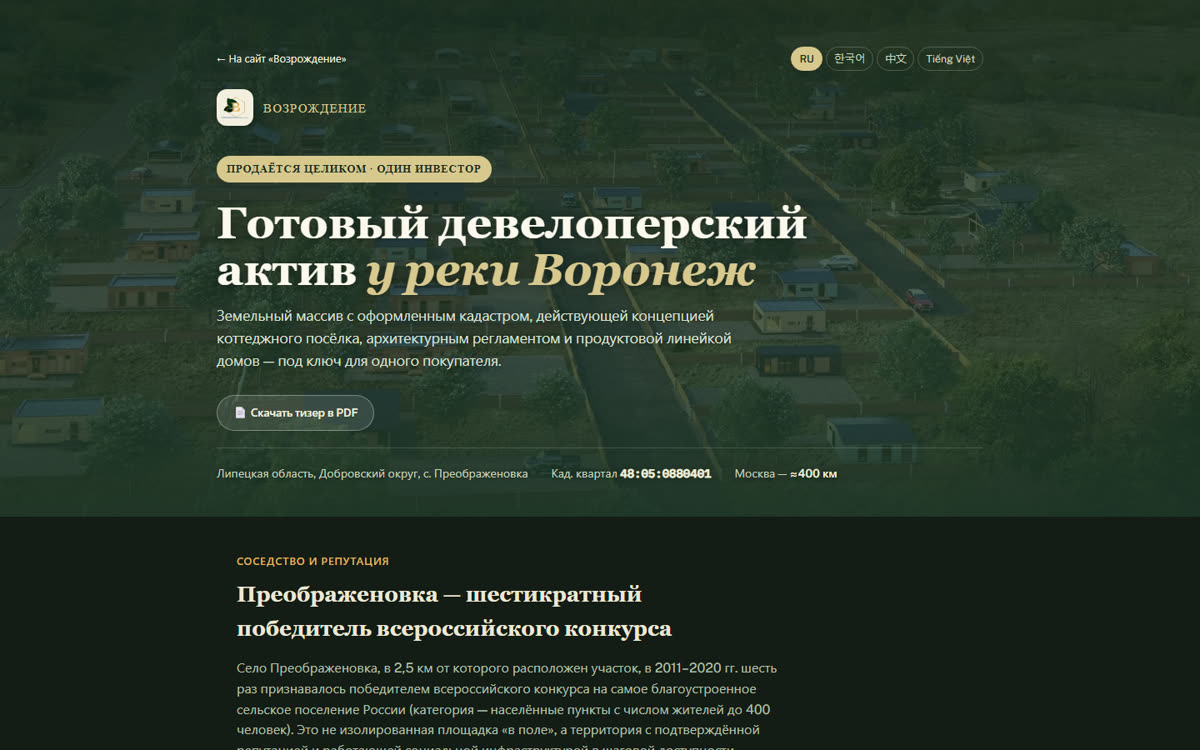
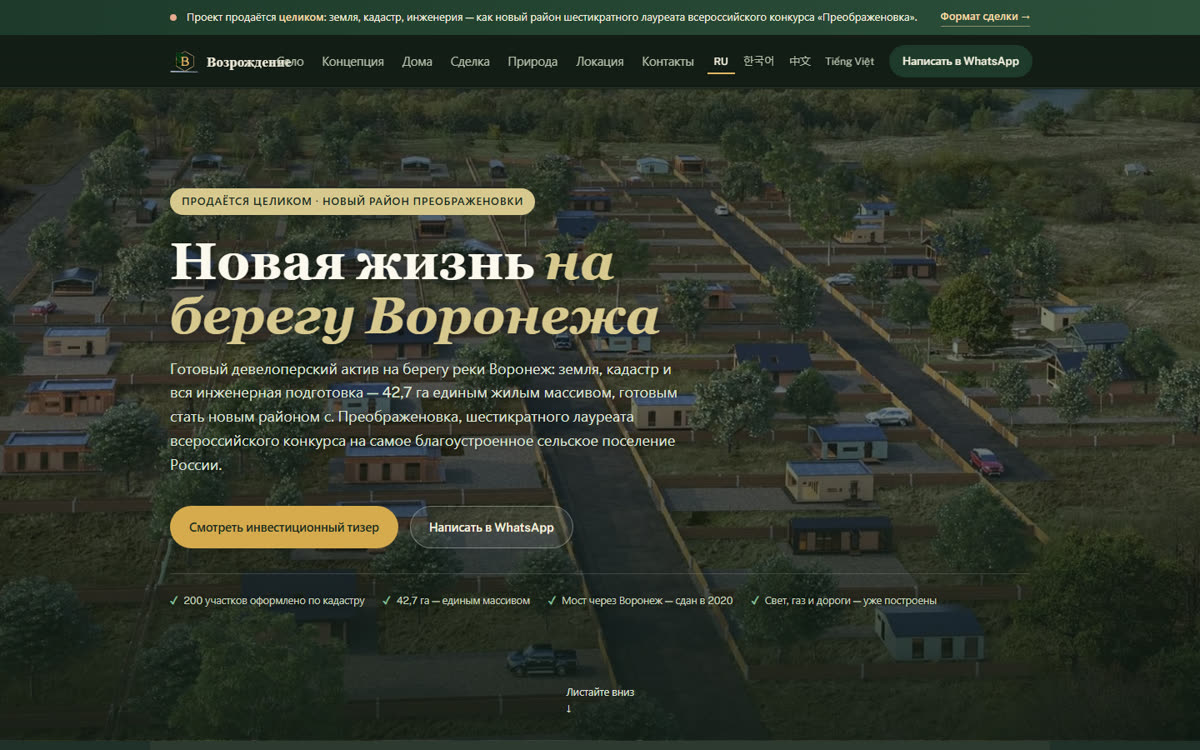
Portfolio: pick the strongest sites after reviewing all 61 live pages

diff --git a/index.html b/index.html
@@ -594,7 +594,7 @@ footer{padding-block:40px calc(30px + env(safe-area-inset-bottom,0px));border-to
 <section class="pfs panel" id="portfolio">
   <div class="wrap">
     <div class="pf-head">
-      <div><p class="eyebrow mono">Портфолио</p><h2 class="h2">Сайты<br><em>и приложения</em></h2></div>
+      <div><p class="eyebrow mono">Портфолио</p><h2 class="h2">Сайты, сервисы<br><em>и приложения</em></h2></div>
       <p class="note">Живые проекты: откройте любой и посмотрите, как он работает.</p>
     </div>
     <div class="pf-grid">
@@ -610,13 +610,25 @@ footer{padding-block:40px calc(30px + env(safe-area-inset-bottom,0px));border-to
         <div class="pf-shot"><div class="pf-bar"><i></i><i></i><i></i><span>vs-pro-m2.ru</span></div><img src="work/vspro.jpg" alt="Премиум-сайт риелтора" loading="lazy"></div>
         <div class="pf-meta"><span class="mono">Лендинг</span><h3>Премиум-сайт риелтора</h3></div>
       </a>
+      <a class="pf" href="https://vozrozhdenie-life.ru/" target="_blank" rel="noopener">
+        <div class="pf-shot"><div class="pf-bar"><i></i><i></i><i></i><span>vozrozhdenie-life.ru</span></div><img src="work/vozr.jpg" alt="Возрождение: новый район на берегу Воронежа" loading="lazy"></div>
+        <div class="pf-meta"><span class="mono">Девелопмент</span><h3>Возрождение: новый район на берегу Воронежа</h3></div>
+      </a>
       <a class="pf" href="https://goshva.github.io/archai/" target="_blank" rel="noopener">
         <div class="pf-shot"><div class="pf-bar"><i></i><i></i><i></i><span>ArchAI</span></div><img src="work/archai.jpg" alt="Видео будущего интерьера из фото бетонной коробки" loading="lazy"></div>
         <div class="pf-meta"><span class="mono">AI-сервис</span><h3>Видео будущего интерьера из фото бетонной коробки</h3></div>
       </a>
-      <a class="pf" href="https://vozrozhdenie-life.ru/teaser.html" target="_blank" rel="noopener">
-        <div class="pf-shot"><div class="pf-bar"><i></i><i></i><i></i><span>vozrozhdenie-life.ru</span></div><img src="work/vozr.jpg" alt="Тизер проекта у реки Воронеж" loading="lazy"></div>
-        <div class="pf-meta"><span class="mono">Девелопмент</span><h3>Тизер проекта у реки Воронеж</h3></div>
+      <a class="pf" href="https://goshva.github.io/reviews/" target="_blank" rel="noopener">
+        <div class="pf-shot"><div class="pf-bar"><i></i><i></i><i></i><span>Честный отзыв</span></div><img src="work/reviews.jpg" alt="Живые отзывы, после которых к вам идут гости" loading="lazy"></div>
+        <div class="pf-meta"><span class="mono">Лендинг для ресторанов</span><h3>Живые отзывы, после которых к вам идут гости</h3></div>
+      </a>
+      <a class="pf" href="https://goshva.github.io/newsgame/" target="_blank" rel="noopener">
+        <div class="pf-shot"><div class="pf-bar"><i></i><i></i><i></i><span>NewsGame</span></div><img src="work/newsgame.jpg" alt="Короткие игры к новостям для редакций" loading="lazy"></div>
+        <div class="pf-meta"><span class="mono">Медиа</span><h3>Короткие игры к новостям для редакций</h3></div>
+      </a>
+      <a class="pf" href="https://goshva.github.io/earthen_rampart/" target="_blank" rel="noopener">
+        <div class="pf-shot"><div class="pf-bar"><i></i><i></i><i></i><span>Земляной вал</span></div><img src="work/rampart.jpg" alt="Витрина участков под девелопмент с аналитикой продаж" loading="lazy"></div>
+        <div class="pf-meta"><span class="mono">Платформа</span><h3>Витрина участков под девелопмент с аналитикой продаж</h3></div>
       </a>
       <a class="pf" href="https://fertika.com/" target="_blank" rel="noopener">
         <div class="pf-shot"><div class="pf-bar"><i></i><i></i><i></i><span>fertika.com</span></div><img src="work/fertika.jpg" alt="Fertika: удобрения для дома и сада" loading="lazy"></div>
